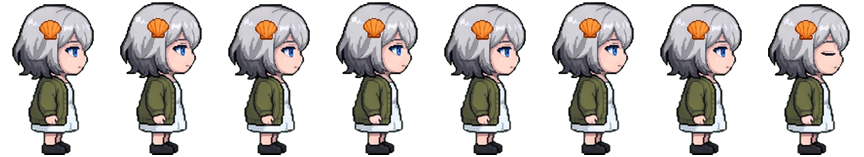
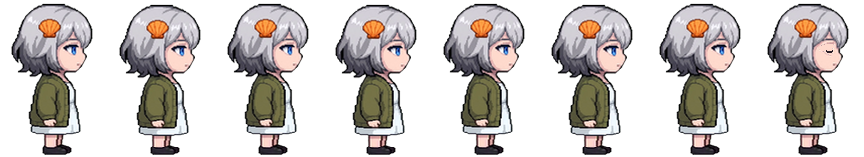
옆모습 정지도 영상 첫 장면에서 만들어 걷기와 같은 그림으로 (숨쉬기 + 눈 깜빡임 합성)
걷다가 멈출 때 얼굴 그림이 바뀌어 보이던 문제.

Claude-Session: https://claude.ai/code/session_01MBgVgKbFxkEXND4zuEcjdV

Changed region(s): [[0.0, 0.0, 1.0, 0.9936]]

diff --git a/tools/sprite_cleanup/video_walk.py b/tools/sprite_cleanup/video_walk.py
@@ -23,7 +23,71 @@ def hem_row(a):
     return int(np.nonzero(white.sum(1) >= 3)[0].max())
 
 
-def main(out_dir, name, idle_name, video, start, period, count, fps=8, mirror_as=None):
+def blink(img):
+    """눈 감기: 파란 눈동자 둘레를 피부색으로 덮고 아래쪽에 감은 눈 선을 그림."""
+    from scipy import ndimage as ndi
+    a = np.array(img).copy()
+    r, g, b = (a[..., i].astype(int) for i in range(3))
+    blue = (a[..., 3] > 128) & (b > r + 40) & (b > g + 10)
+    lab, n = ndi.label(ndi.binary_dilation(blue, iterations=1))
+    if n == 0:
+        return img
+    sizes = ndi.sum(np.ones(lab.shape), lab, range(1, n + 1))
+    ys, xs = np.nonzero(lab == np.argmax(sizes) + 1)
+    y0, y1, x0, x1 = ys.min(), ys.max(), xs.min(), xs.max()
+    skin = a[min(a.shape[0] - 1, y1 + 3), (x0 + x1) // 2].copy()
+    lash = a[y0 - 1, (x0 + x1) // 2].copy()
+    if lash[:3].astype(int).sum() > 300:   # 위 속눈썹이 안 잡히면 어두운 색
+        lash = np.array([40, 30, 40, 255], np.uint8)
+    # 눈 둘레에서 피부가 아닌 것은 모두 피부색으로 덮되, 바깥까지 이어진 머리카락 덩어리는 남김
+    pad = 8
+    by0, by1, bx0, bx1 = y0 - 3, y1 + 3, x0 - 7, x1 + 3
+    R0, R1, C0, C1 = by0 - pad, by1 + pad, bx0 - pad, bx1 + pad
+    big = a[R0:R1, C0:C1]
+    rr, gg, bb = (big[..., i].astype(int) for i in range(3))
+    is_skin = (rr > 195) & (gg > 145) & (rr - bb > 15)
+    nonskin = (big[..., 3] > 128) & ~is_skin
+    inner = np.zeros(nonskin.shape, bool)
+    inner[pad:-pad, pad:-pad] = True
+    lab, n = ndi.label(nonskin)
+    border = np.unique(np.concatenate([lab[0], lab[-1], lab[:, 0], lab[:, -1]]))
+    eye_blob = np.isin(lab, np.unique(lab[inner & nonskin])) & ~np.isin(lab, border[border > 0])
+    # 머리카락과 붙어 있는 속눈썹은 덩어리로 안 잡히므로, 상자 안의 어두운 점·흰자·파랑도 덮음
+    lum = (rr + gg + bb) / 3
+    small = inner & nonskin & ((lum < 120) | (bb > rr + 20) | ((lum > 170) & (bb >= rr - 8)))
+    small[:pad + 2] &= lum[:pad + 2] < 110   # 위쪽(앞머리 닿는 줄)은 어두운 속눈썹만
+    big[(eye_blob | small) & inner] = skin
+    # 감은 눈: 아래로 살짝 휜 2px 선 (양 끝이 1px 위)
+    ly = y0 + (y1 - y0) * 2 // 3
+    xa, xb = x0, x1 + 1
+    a[ly:ly + 2, xa + 1:xb - 1] = lash
+    a[ly - 1:ly + 1, xa] = lash
+    a[ly - 1:ly + 1, xb - 1] = lash
+    return Image.fromarray(a, "RGBA")
+
+
+def write_idle(out, meta, name, mirror, cell, cw, ch):
+    """정지 동작 8칸: 기본, 숨쉬기(상체 1px 내려감), 마지막 칸은 눈 깜빡임."""
+    a = np.array(cell)
+    al = a[..., 3] > 128
+    white = al & (a[..., 0] > 215) & (a[..., 1] > 215) & (a[..., 2] > 215)
+    hem = int(np.nonzero(white.sum(1) >= 3)[0].max())
+    br = a.copy()
+    br[1:hem + 1] = a[0:hem]
+    br[0] = 0
+    base, breath = cell, Image.fromarray(br, "RGBA")
+    seq = [base, breath, base, breath, base, breath, base, blink(base)]
+    for nm, flip in ((name, False), (mirror, True)):
+        if not nm:
+            continue
+        sh = Image.new("RGBA", (cw * len(seq), ch), (0, 0, 0, 0))
+        for i, f in enumerate(seq):
+            sh.alpha_composite(f.transpose(Image.FLIP_LEFT_RIGHT) if flip else f, (i * cw, 0))
+        sh.save(out / f"{nm}.png")
+        meta["animations"][nm] = {"frames": len(seq), "cell": [cw, ch], "fps": 3, "loop": True}
+
+
+def main(out_dir, name, idle_name, video, start, period, count, fps=8, mirror_as=None, idle_as=None, idle_mirror=None):
     out = Path(out_dir)
     meta = json.loads((out / "frames.json").read_text(encoding="utf-8"))
     cw, ch = meta["cell"]
@@ -37,6 +101,8 @@ def main(out_dir, name, idle_name, video, start, period, count, fps=8, mirror_as
     with tempfile.TemporaryDirectory() as td:
         subprocess.run(["ffmpeg", "-v", "error", "-i", str(video), f"{td}/f_%04d.png"], check=True)
         picks = [start + round(i * period / count) for i in range(count)]
+        if idle_as:
+            picks.append(0)   # 영상 첫 장면 = 넣은 정지 그림 자세 → 정지 동작도 영상 그림으로 (걷다 멈출 때 그림이 안 바뀌게)
         raw = []
         for p in picks:
             a = np.array(Image.open(f"{td}/f_{p + 1:04d}.png").convert("RGB"))
@@ -77,7 +143,7 @@ def main(out_dir, name, idle_name, video, start, period, count, fps=8, mirror_as
     kl = (s_bot - s_chin) / (c_bot - c_chin)
     kxx = head_width(stand) / head_width(cells[0])
     t0 = c_top
-    sheet = Image.new("RGBA", (cw * count, ch), (0, 0, 0, 0))
+    sheet = Image.new("RGBA", (cw * len(cells), ch), (0, 0, 0, 0))
     fixed = []
     sx = np.nonzero((sa[s_chin + 2:s_chin + 2 + int((s_bot - s_chin) * 0.55), :, 3] > 128).any(0))[0]
     for i, cell in enumerate(cells):
@@ -97,6 +163,10 @@ def main(out_dir, name, idle_name, video, start, period, count, fps=8, mirror_as
         fixed.append(out_c)
         sheet.alpha_composite(out_c, (i * cw, 0))
     cells = fixed
+    if idle_as:
+        stand_cell = cells.pop()
+        sheet = sheet.crop((0, 0, cw * count, ch))
+        write_idle(out, meta, idle_as, idle_mirror, stand_cell, cw, ch)
     sheet.save(out / f"{name}.png")
     meta["animations"][name] = {"frames": count, "cell": [cw, ch], "fps": fps, "loop": True}
     if mirror_as:

diff --git a/tools/sprite_cleanup/clean_chroma.py b/tools/sprite_cleanup/clean_chroma.py
@@ -301,7 +301,7 @@ def main(cfg_path, out_dir):
     for v in cfg.get("video_walks", []):
         from video_walk import main as video_walk
         video_walk(out, v["name"], v["idle"], str(Path(cfg_path).parent / v["video"]), v["start"], v["period"],
-                   v["count"], v.get("fps", 8), v.get("mirror_as"))
+                   v["count"], v.get("fps", 8), v.get("mirror_as"), v.get("idle_as"), v.get("idle_mirror"))
     # 다리 합성 걷기 (정지 그림 + 다리 편집 그림). compose_walk.py 참고
     for cw_opt in cfg.get("compose_walks", []):
         from compose_walk import main as compose
